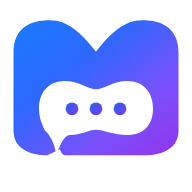
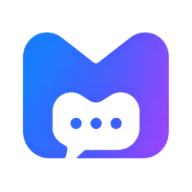
fix: 恢复定稿图标构图并等比缩小至安全区，修复图标过大与观感不一致问题
- 图标 PNG 为手工定稿构图（与 logo.svg 原始渲染不同），此前误用 SVG 渲染覆盖导致观感变化，现已全部恢复
- 新增 scripts/shrink_launcher_foreground.py：对定稿前景图等比缩小（内容占比 70%→55%），保留原构图
- 生成脚本添加警告，防止再次误覆盖定稿图标

diff --git a/scripts/shrink_launcher_foreground.py b/scripts/shrink_launcher_foreground.py
@@ -1,0 +1,39 @@
+#!/usr/bin/env python3
+"""将精调版启动图标前景等比缩小到自适应图标安全区内。
+
+背景：仓库中的 ic_launcher_foreground.png 是手工定稿构图（与 logo.svg 原始
+渲染不同），不能通过 generate_launcher_icons.mjs 重新渲染覆盖。
+此脚本只做一件事：把定稿前景图整体等比缩小，使内容宽度占画布约 55%
+（安全区为 66/108 ≈ 61%），构图、配色、抗锯齿全部保留原样。
+"""
+from PIL import Image
+
+TARGET_RATIO = 0.55  # 内容宽度占画布比例
+
+FOREGROUNDS = [
+    'app/src/main/res/drawable-mdpi/ic_launcher_foreground.png',
+    'app/src/main/res/drawable-hdpi/ic_launcher_foreground.png',
+    'app/src/main/res/drawable-xhdpi/ic_launcher_foreground.png',
+    'app/src/main/res/drawable-xxhdpi/ic_launcher_foreground.png',
+    'app/src/main/res/drawable-xxxhdpi/ic_launcher_foreground.png',
+]
+
+for rel_path in FOREGROUNDS:
+    img = Image.open(rel_path).convert('RGBA')
+    size = img.width
+    bbox = img.getbbox()
+    if bbox is None:
+        raise SystemExit(f'{rel_path}: 空图像')
+    content_w = bbox[2] - bbox[0]
+    target_w = TARGET_RATIO * size
+    k = target_w / content_w
+    new_dim = round(size * k)
+    scaled = img.resize((new_dim, new_dim), Image.LANCZOS)
+    canvas = Image.new('RGBA', (size, size), (0, 0, 0, 0))
+    offset = (size - new_dim) // 2
+    canvas.paste(scaled, (offset, offset))
+    canvas.save(rel_path)
+    print(f'{rel_path}: 画布 {size}px, 内容宽 {content_w}px -> {round(target_w)}px '
+          f'(缩放 {k:.3f})')
+
+print('完成')
